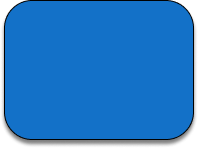
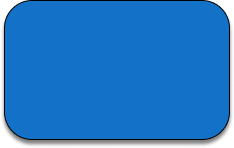
upd button

Changed region(s): [[0.8485, 0.0, 1.0, 0.973], [0.0, 0.0, 0.1515, 0.973]]

diff --git a/xoxo/xoxo.css b/xoxo/xoxo.css
@@ -162,7 +162,7 @@
 			margin: 0px 20px;
 			display: none;
 			background: url('button.png') no-repeat center center;
-			width: 198px;
+			width: 234px;
 			height: 148px;
 			color: white;
 			font-size: 30px;
@@ -178,7 +178,7 @@
 			margin: 0px 20px;
 			display: none;
 			background: url('button.png') no-repeat center center;
-			width: 198px;
+			width: 234px;
 			height: 148px;
 			color: white;
 			font-size: 30px;
